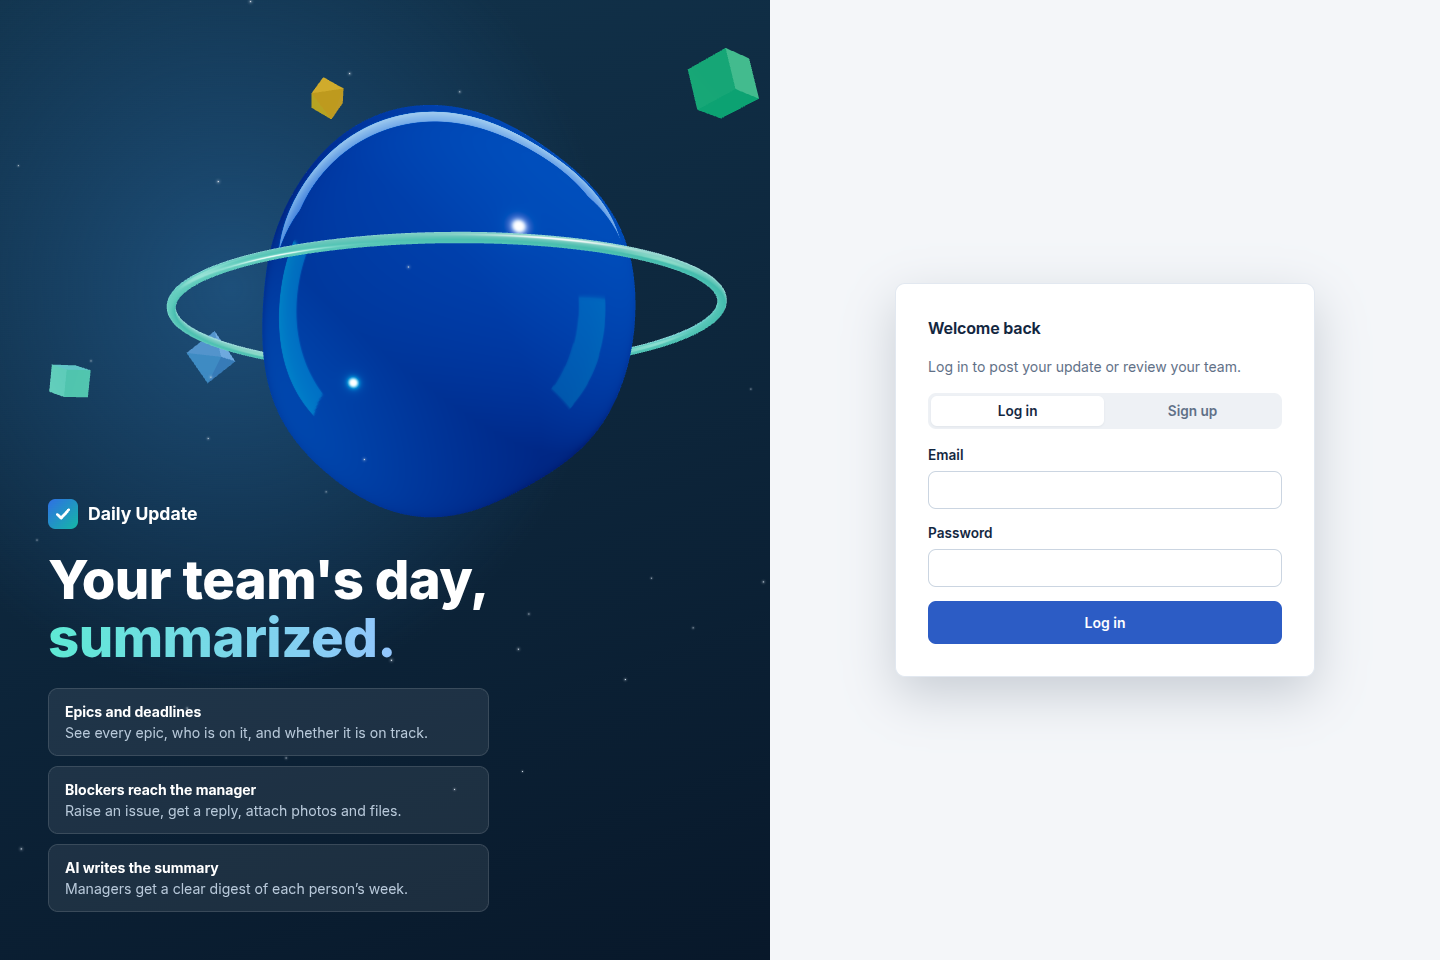
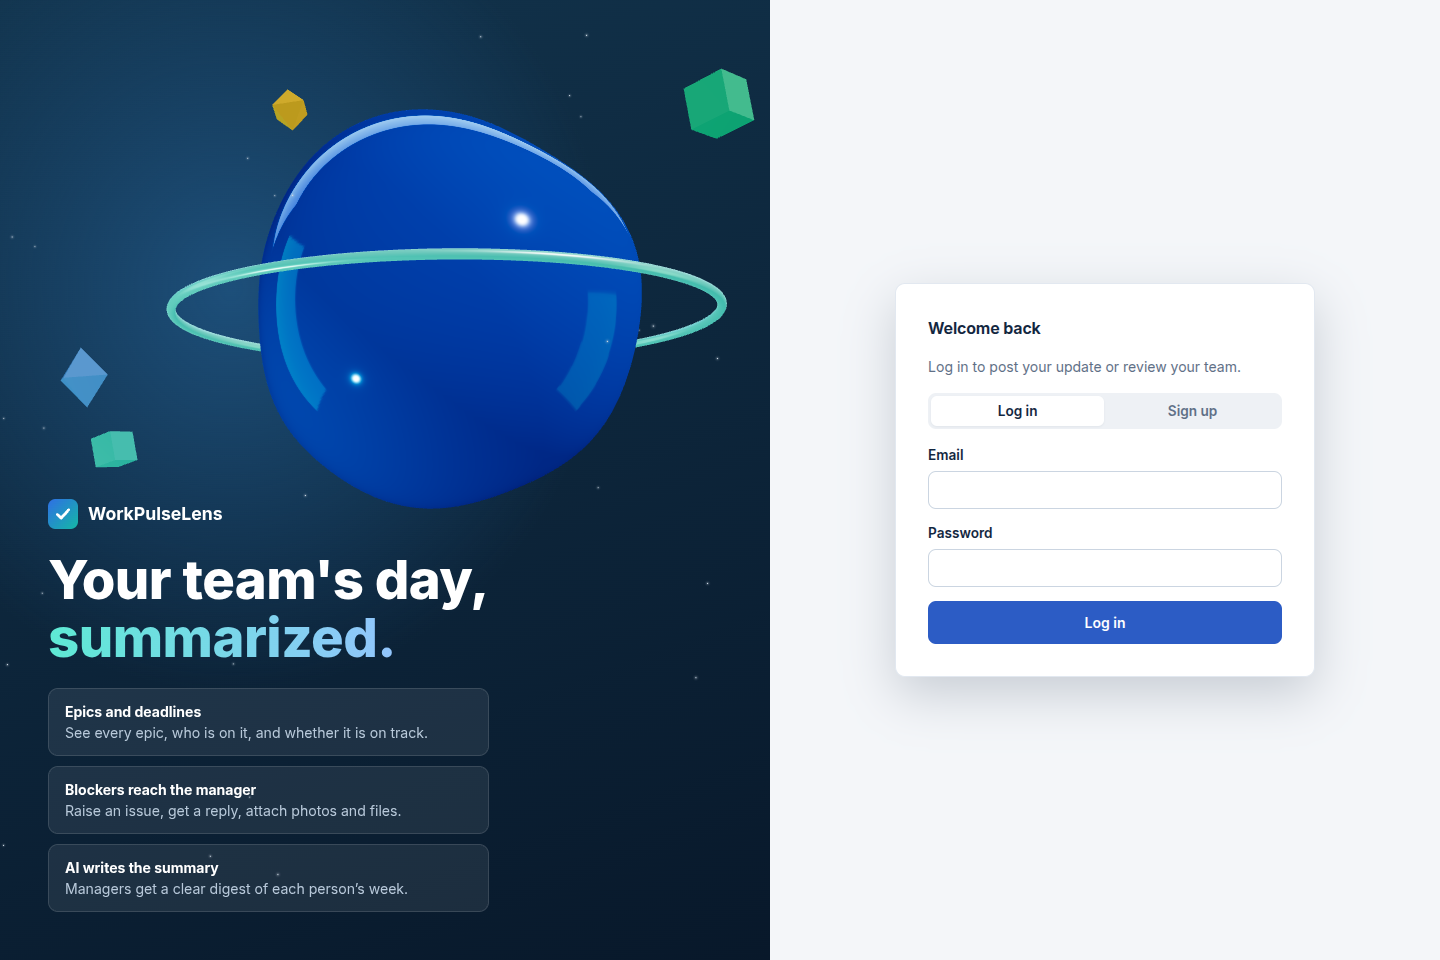
Rename the app to WorkPulseLens
Shows WorkPulseLens in the browser tab, the logo, the sidebar, the
README and setup.sh output, and refreshes the screenshots. Database
names, the compose project name and saved logins stay the same, so
existing data and sessions keep working.

Claude-Session: https://claude.ai/code/session_01Sbv6aKEw1foDHoqWptRhki

diff --git a/frontend/src/components/Shell.jsx b/frontend/src/components/Shell.jsx
@@ -36,7 +36,7 @@ export default function Shell({ user, token, section, counts = {}, onSignOut, ch
       <aside className="sidebar">
         <a className="sidebar-brand" href="#/">
           <img src="/favicon.svg" alt="" width="30" height="30" />
-          <span>Daily Update</span>
+          <span>WorkPulseLens</span>
         </a>
         <nav className="sidebar-nav" aria-label="Main">
           {nav.map(([path, label, icon]) => (

diff --git a/frontend/index.html b/frontend/index.html
@@ -5,7 +5,7 @@
     <meta name="viewport" content="width=device-width, initial-scale=1.0" />
     <meta name="color-scheme" content="dark light" />
     <link rel="icon" type="image/svg+xml" href="/favicon.svg" />
-    <title>Daily Update</title>
+    <title>WorkPulseLens</title>
   </head>
   <body>
     <div id="root"></div>

diff --git a/frontend/src/components/Logo.jsx b/frontend/src/components/Logo.jsx
@@ -2,7 +2,7 @@ export default function Logo() {
   return (
     <div className="logo">
       <img src="/favicon.svg" alt="" width="30" height="30" />
-      <span>Daily Update</span>
+      <span>WorkPulseLens</span>
     </div>
   );
 }

diff --git a/README.md b/README.md
@@ -1,6 +1,6 @@
-# Daily Update Website
+# WorkPulseLens
 
-A work app for teams: employees log what they did each day against the epics they work on, raise blockers and deadline problems, and claim weekend work; managers see whether every epic is on track, answer blockers, approve requests, and read an AI-written summary of each person's work. No email involved: alerts show up in the website's notification bell.
+WorkPulseLens is a work app for teams: employees log what they did each day against the epics they work on, raise blockers and deadline problems, and claim weekend work; managers see whether every epic is on track, answer blockers, approve requests, and read an AI-written summary of each person's work. No email involved: alerts show up in the website's notification bell.
 
 ![Manager dashboard: epics, deadlines, health and alerts](docs/manager-dashboard.png)
 
@@ -8,7 +8,7 @@ A work app for teams: employees log what they did each day against the epics the
 |---|---|
 | ![Employee daily update with calendar and epics](docs/employee.png) | ![Epic with progress, people and daily updates](docs/epic.png) |
 | **Blocker conversation** | **Weekend requests and alerts** |
-| ![Manager replying to a blocker with an attachment](docs/issue.png) | ![Weekend requests with the notification panel open](docs/requests.png) |
+| ![Blocker and deadline issues inbox with a conversation open](docs/issue.png) | ![Weekend requests with the notification panel open](docs/requests.png) |
 
 **Admin: accounts**
 
